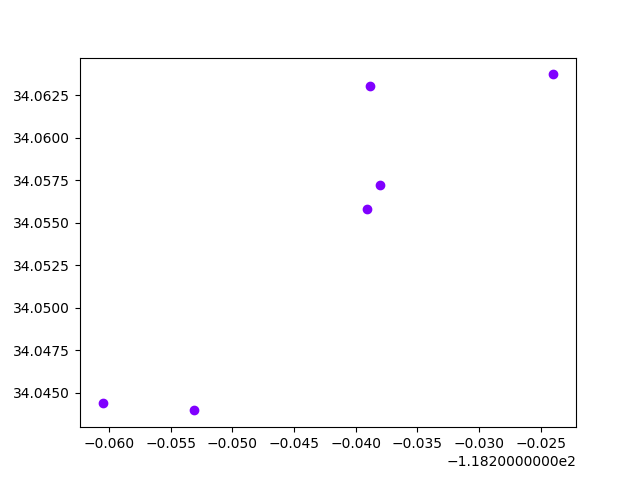
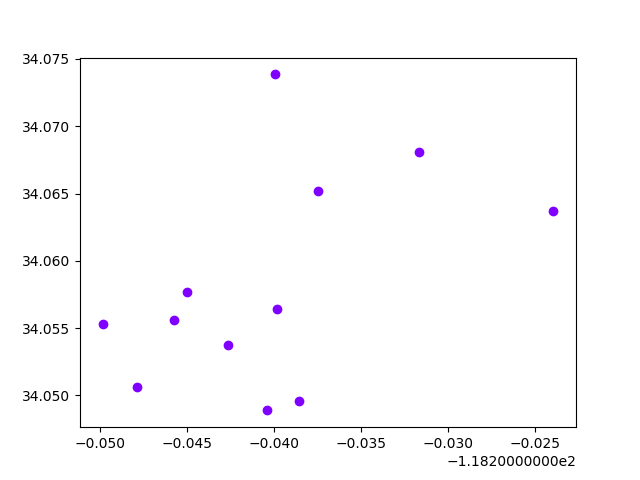
TripEvent +Floatfield => lat & lng

diff --git a/backend/Trip/scheduling.py b/backend/Trip/scheduling.py
@@ -259,18 +259,16 @@ class SchedulingTEST(SearchLocation):
         # SIMULATING FRONTEND, POST TO http://127.0.0.1/trip/schedule/
         headers = {
             'Content-Type': 'application/json',
-            'Authorization': 'Bearer eyJ0eXAiOiJKV1QiLCJhbGciOiJIUzI1NiJ9.eyJ0b2tlbl90eXBlIjoiYWNjZXNzIiwiZXhwIjoxNjQ1NzU3ODk2LCJpYXQiOjE2NDU2NzE0OTYsImp0aSI6ImI1OWZhZDQwZjQwNzQzMmI4MjhlMTc2MmVmNDhiZDk1IiwidXNlcl9pZCI6MX0.IabsdL3Ht3RqOF5QL8OMAC3A_b6kzeXb5BGZJSpH24k'
+            'Authorization': 'Bearer eyJ0eXAiOiJKV1QiLCJhbGciOiJIUzI1NiJ9.eyJ0b2tlbl90eXBlIjoiYWNjZXNzIiwiZXhwIjoxNjQ2MjA5OTA1LCJpYXQiOjE2NDYxMjM1MDUsImp0aSI6IjkxMjAxZjkzMzZiMDRhYjJhMzQ2MGM0ZDVhMmZhNTIxIiwidXNlcl9pZCI6MX0.JufpAe_Er3zdQWgqMciiLUfidt9MKKi4zSUQ7zFWZMM'
         }
         simulated_data = {
-            "userOptions": {
-                "places": nearby_places,
-                "dates": [
-                    "2022-02-22",
-                    "2022-02-23",
-                    "2022-02-24"
-                ],
-                "wakeUpTime": "09:00"
-            }
+            "places": nearby_places,
+            "dates": [
+                "2022-02-22",
+                "2022-02-23",
+                "2022-02-24"
+            ],
+            "wakeUpTime": "09:00"
         }
         simulated_data = json.dumps(simulated_data)
         response = requests.post(
@@ -435,9 +433,10 @@ class SchedulingAPI(APIView):
                     place_id=p.place_id,
                     place_name=p.name,
                     itin=new_itinerary,
-                    # TODO: set start_time/end_time
                     start_time=p.start_time,
                     end_time=(p.start_time + p.duration),
+                    lat=p.lat,
+                    lng=p.lng
                 )
                 new_tripevent.save()
 

diff --git a/backend/Trip/migrations/0007_tripevent_lat_tripevent_lng.py b/backend/Trip/migrations/0007_tripevent_lat_tripevent_lng.py
@@ -1,0 +1,25 @@
+# Generated by Django 4.0.1 on 2022-03-02 04:51
+
+from django.db import migrations, models
+
+
+class Migration(migrations.Migration):
+
+    dependencies = [
+        ('Trip', '0006_tripevent_place_name'),
+    ]
+
+    operations = [
+        migrations.AddField(
+            model_name='tripevent',
+            name='lat',
+            field=models.FloatField(default=0),
+            preserve_default=False,
+        ),
+        migrations.AddField(
+            model_name='tripevent',
+            name='lng',
+            field=models.FloatField(default=0),
+            preserve_default=False,
+        ),
+    ]

diff --git a/backend/Trip/serializers.py b/backend/Trip/serializers.py
@@ -17,7 +17,7 @@ class TripEventSerializer(WritableNestedModelSerializer):
 
     class Meta:
         model = TripEvent
-        fields = ('id', 'place_id', 'place_name', 'start_time', 'end_time', 'itin', 'place_json')
+        fields = ('id', 'place_id', 'place_name', 'start_time', 'end_time', 'itin', 'lat', 'lng', 'place_json')
 
     # def validate(self, data):
     #     print("\n\n[[[[[[Calling validate() Method...]]]]]]\n\n")

diff --git a/backend/Trip/models.py b/backend/Trip/models.py
@@ -33,6 +33,8 @@ class TripEvent(models.Model):
     itin = models.ForeignKey(Itinerary, on_delete=models.CASCADE, related_name="trip_event")
     start_time = models.DateTimeField()
     end_time = models.DateTimeField()
+    lat = models.FloatField()
+    lng = models.FloatField()
     # use for storing json data for this place
     place_json = models.TextField()
 
